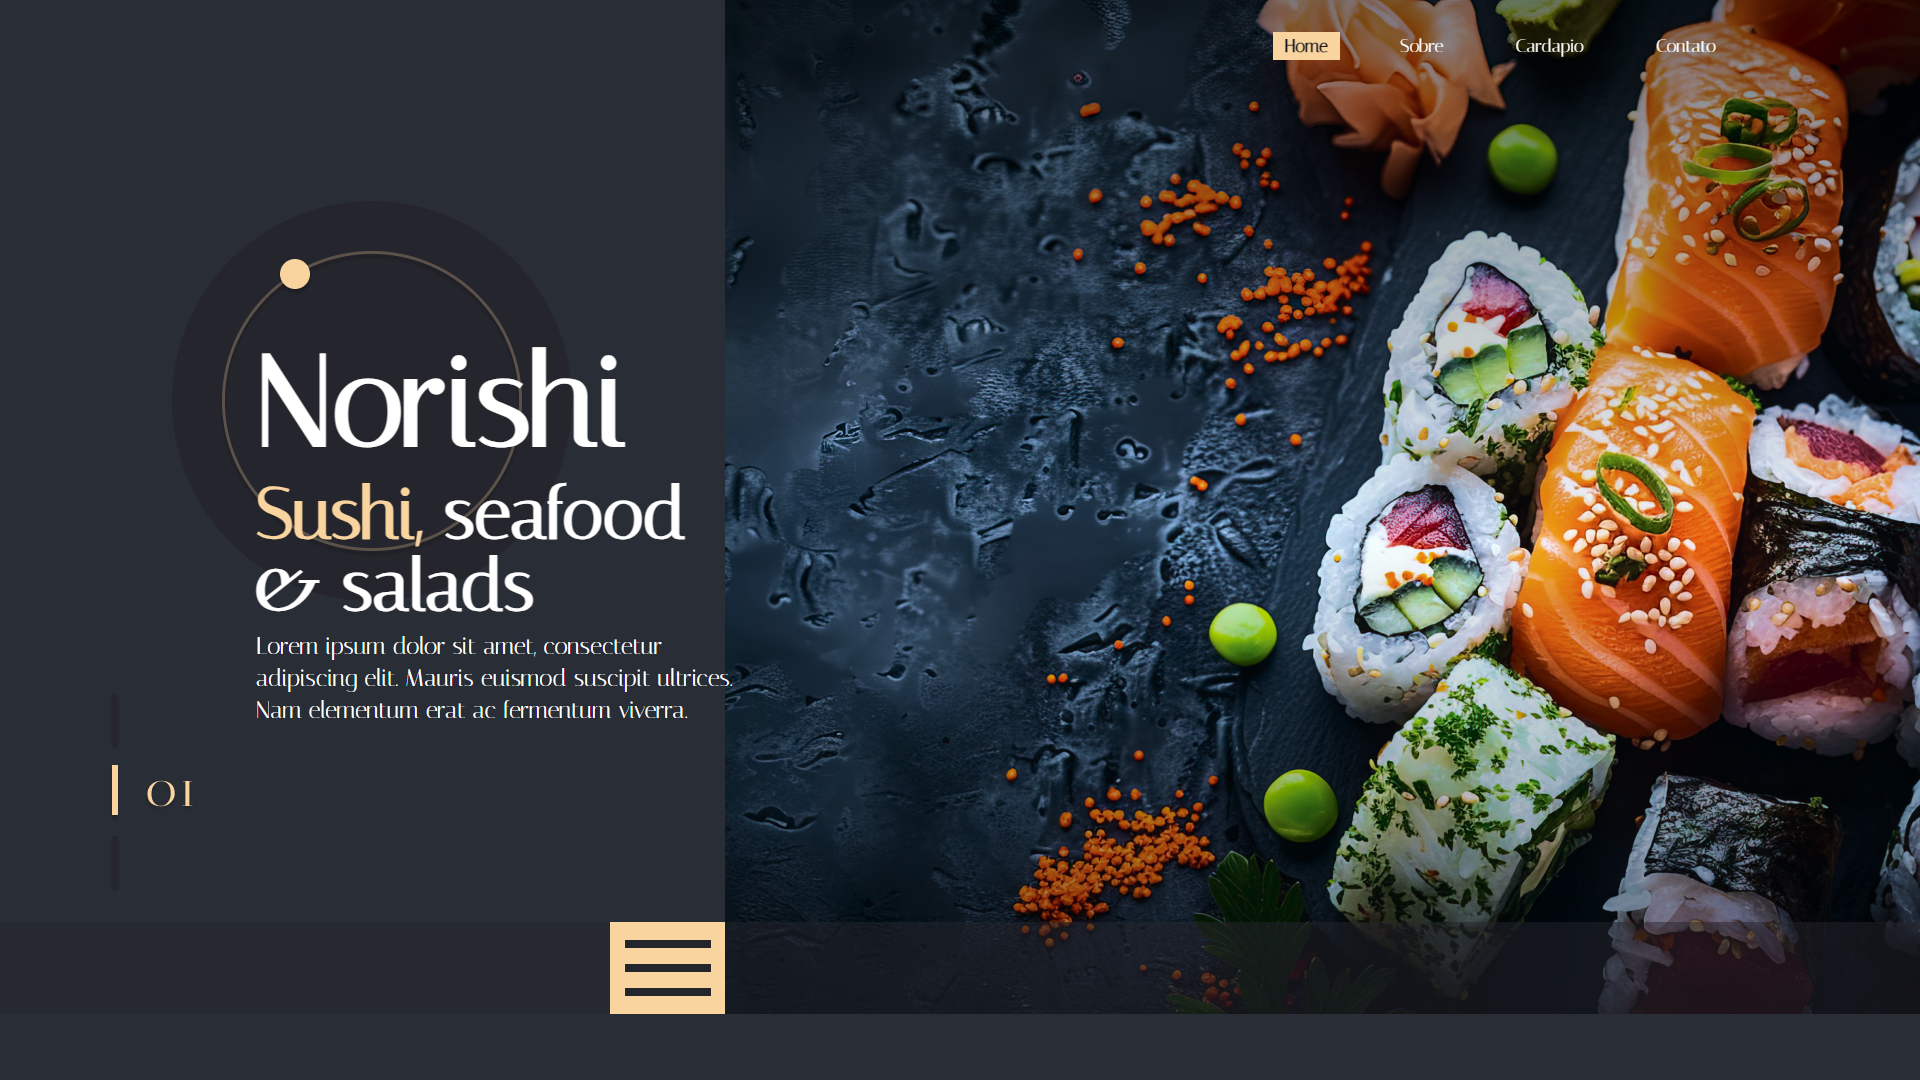
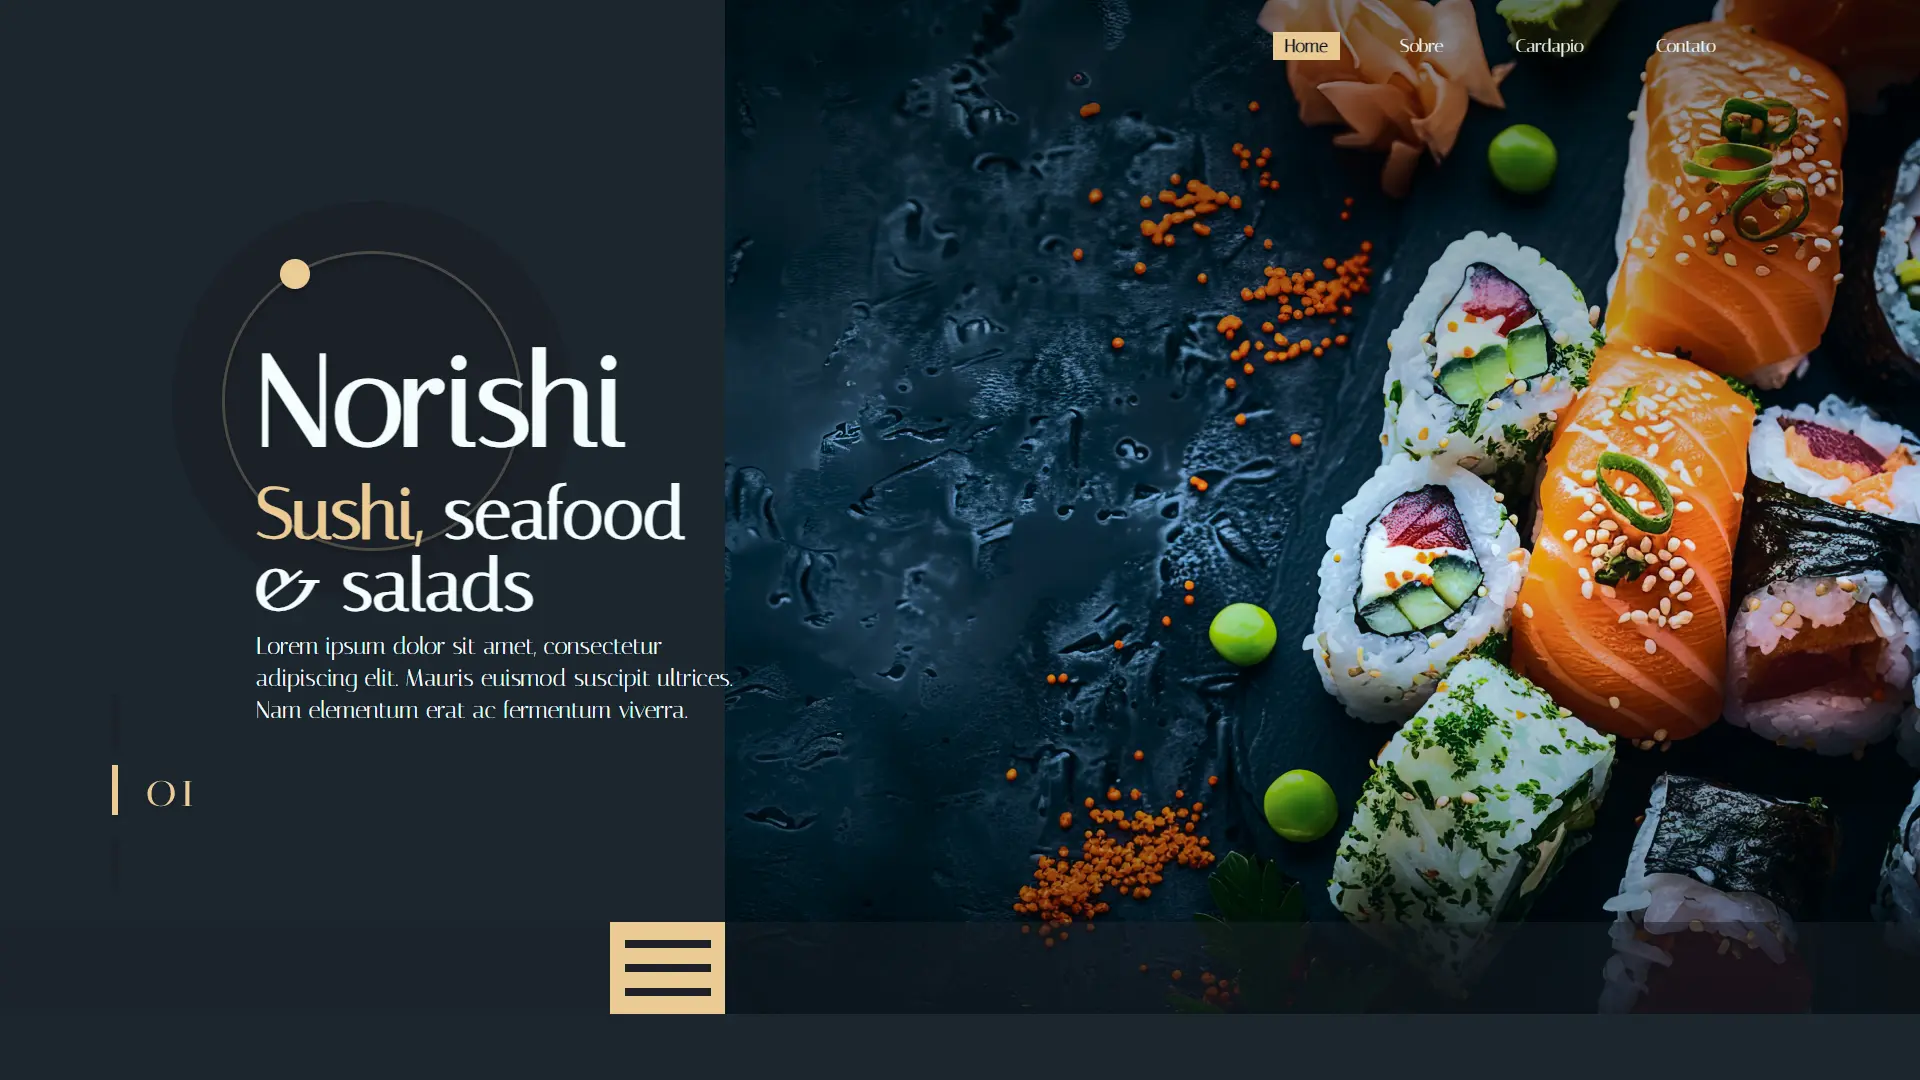
Add

diff --git a/src/components/Projects.tsx b/src/components/Projects.tsx
@@ -1,6 +1,6 @@
 // Projects.tsx
 'use client';
-import React from 'react';
+import React, { useState } from 'react';
 import { FaGithub, FaAngular, FaVuejs } from 'react-icons/fa';
 import { SiTypescript, SiNextdotjs, SiTailwindcss } from 'react-icons/si';
 import FadeInSection from './FadeInSection';
@@ -9,45 +9,54 @@ import mymovies from '@/assets/mymovies.webp';
 import norishi from '@/assets/Norishi.webp';
 import exotics from '@/assets/exotics.webp';
 import webstore from '@/assets/webstore.webp'
-import cafty from '@/assets/cafty.webp';
+import cofty from '@/assets/cofty.webp';
 import arenax from '@/assets/arenax.webp';
+
+interface ProjectsProps {
+    language: string;
+}
 
 const projects = [
     {
-        title: 'ArenaX',
-        description: 'Landing Page',
-        imageUrl: arenax,
-        technologies: [<FaAngular key="angular" />, <SiTypescript key="typescript" />, <SiTailwindcss key="tailwind" />],
-        liveUrl: 'https://arena-x-zeta.vercel.app/',
-        repoUrl: 'https://github.com/VictorBravim/ArenaX',
-    },
-    {
-        title: 'Cafty',
-        description: 'Landing Page',
-        imageUrl: cafty,
-        technologies: [<SiTypescript key="typescript" />, <SiNextdotjs key="nextjs" />, <SiTailwindcss key="tailwindcss" />],
-        liveUrl: 'https://cofty.vercel.app/',
-        repoUrl: 'https://github.com/VictorBravim/Cafty',
-    },
-    {
-        title: 'WebStore',
-        description: 'Template',
-        imageUrl: webstore,
-        technologies: [<SiTypescript key="typescript" />, <SiNextdotjs key="nextjs" />, <SiTailwindcss key="tailwindcss" />],
-        liveUrl: 'https://web-store-pi.vercel.app/',
-        repoUrl: 'https://github.com/VictorBravim/WebStore',
-    },
-    {
         title: 'Exotics',
         description: 'Landing Page',
+        category: 'web',
         imageUrl: exotics,
         technologies: [<SiTypescript key="typescript" />, <SiNextdotjs key="nextjs" />, <SiTailwindcss key="tailwindcss" />],
         liveUrl: 'https://exotics.vercel.app/',
         repoUrl: 'https://github.com/VictorBravim/Exotics',
     },
     {
+        title: 'Cofty',
+        description: 'Landing Page',
+        category: 'web',
+        imageUrl: cofty,
+        technologies: [<SiTypescript key="typescript" />, <SiNextdotjs key="nextjs" />, <SiTailwindcss key="tailwindcss" />],
+        liveUrl: 'https://cofty.vercel.app/',
+        repoUrl: 'https://github.com/VictorBravim/Cafty',
+    },
+    {
+        title: 'ArenaX',
+        description: 'Landing Page',
+        category: 'web',
+        imageUrl: arenax,
+        technologies: [<FaAngular key="angular" />, <SiTypescript key="typescript" />, <SiTailwindcss key="tailwind" />],
+        liveUrl: 'https://arena-x-zeta.vercel.app/',
+        repoUrl: 'https://github.com/VictorBravim/ArenaX',
+    },
+    {
+        title: 'WebStore',
+        description: 'Template',
+        category: 'web',
+        imageUrl: webstore,
+        technologies: [<SiTypescript key="typescript" />, <SiNextdotjs key="nextjs" />, <SiTailwindcss key="tailwindcss" />],
+        liveUrl: 'https://web-store-pi.vercel.app/',
+        repoUrl: 'https://github.com/VictorBravim/WebStore',
+    },
+    {
         title: 'Norishi',
         description: 'Single Page',
+        category: 'web',
         imageUrl: norishi,
         technologies: [<SiTypescript key="typescript" />, <SiNextdotjs key="nextjs" />, <SiTailwindcss key="tailwindcss" />],
         liveUrl: 'https://norishi.vercel.app/',
@@ -56,19 +65,103 @@ const projects = [
     {
         title: 'MyMovies',
         description: 'Single Page',
+        category: 'design',
         imageUrl: mymovies,
         technologies: [<FaVuejs key="vue" />, <SiTypescript key="typescript" />, <SiTailwindcss key="tailwind" />],
         liveUrl: 'https://my-movies-peach.vercel.app/',
         repoUrl: 'https://github.com/VictorBravim/MyMovies',
     },
+    {
+        title: 'Project 7',
+        description: 'Design Project',
+        category: 'design',
+        imageUrl: mymovies,
+        technologies: [<FaVuejs key="vue" />, <SiTypescript key="typescript" />, <SiTailwindcss key="tailwind" />],
+        liveUrl: 'https://project7.vercel.app/',
+        repoUrl: 'https://github.com/VictorBravim/Project7',
+    },
+    {
+        title: 'Project 8',
+        description: 'Web Project',
+        category: 'web',
+        imageUrl: webstore,
+        technologies: [<FaAngular key="angular" />, <SiTypescript key="typescript" />, <SiTailwindcss key="tailwind" />],
+        liveUrl: 'https://project8.vercel.app/',
+        repoUrl: 'https://github.com/VictorBravim/Project8',
+    },
+    {
+        title: 'Project 9',
+        description: 'Design Project',
+        category: 'design',
+        imageUrl: cofty,
+        technologies: [<SiTypescript key="typescript" />, <SiNextdotjs key="nextjs" />, <SiTailwindcss key="tailwindcss" />],
+        liveUrl: 'https://project9.vercel.app/',
+        repoUrl: 'https://github.com/VictorBravim/Project9',
+    },
 ];
 
-const Projects: React.FC = () => {
+const Projects: React.FC<ProjectsProps> = ({ language }) => {
+    const [filter, setFilter] = useState('all');
+    const [visibleProjects, setVisibleProjects] = useState(6);
+
+    const handleLoadMore = () => {
+        setVisibleProjects(prev => prev + 3);
+    };
+
+    const filteredProjects = filter === 'all' ? projects : projects.filter(project => project.category === filter);
+
     return (
-        <div id='projects' className="bg-black text-white p-10 py-32">
+        <section id='projects' className="bg-black text-white p-10 py-32"
+        style={{ 
+            backgroundImage: "url('/bg2.png')",
+            backgroundSize: 'cover',
+            backgroundPosition: 'center',
+          }}>
             <div className="container mx-auto">
+                <FadeInSection>
+                    <div className='flex flex-col lg:flex-row justify-between'>
+                        <div className="flex justify-start mb-8">
+                            <button
+                                className={`px-4 py-2 mr-2 ${filter === 'all' ? 'bg-white text-black' : 'text-white bg-transparent'} border border-white`}
+                                onClick={() => setFilter('all')}
+                            >
+                                    {language === 'PT' ? (
+                                        "Todos"
+                                    ) : (
+                                        "All"
+                                    )}
+                            </button>
+                            <button
+                                className={`px-4 py-2 mx-2 ${filter === 'web' ? 'bg-white text-black' : 'text-white bg-transparent'} border border-white`}
+                                onClick={() => setFilter('web')}
+                            >
+                                Web
+                            </button>
+                            <button
+                                className={`px-4 py-2 mx-2 ${filter === 'design' ? 'bg-white text-black' : 'text-white bg-transparent'} border border-white`}
+                                onClick={() => setFilter('design')}
+                            >
+                                Design
+                            </button>
+                        </div>
+                        {visibleProjects < filteredProjects.length && (
+                            <div className="flex justify-end mb-8">
+                                <button
+                                    className="bg-transparent text-white text-xl font-bold py-2 px-4 border border-white transition hover:bg-white hover:text-black"
+                                    onClick={handleLoadMore}
+                                >
+                                    {language === 'PT' ? (
+                                        "Carregar Mais"
+                                    ) : (
+                                        "Show More"
+                                    )}
+                                </button>
+                            </div>
+                        )}
+                    </div>
+                </FadeInSection>
                 <div className="grid grid-cols-1 md:grid-cols-2 lg:grid-cols-3 gap-10">
-                    {projects.map((project, index) => (
+                    {filteredProjects.slice(0, visibleProjects).map((project, index) => (
                         <FadeInSection key={index}>
                             <div className="relative group">
                                 <Image
@@ -76,22 +169,22 @@ const Projects: React.FC = () => {
                                     alt={project.title}
                                     className="w-full h-70 object-cover object-center group-hover:grayscale-0 transition duration-300"
                                 />
-                                <div className="absolute inset-0 bg-black bg-opacity-70 opacity-0 group-hover:opacity-100 transition duration-300 flex flex-col justify-center items-center">
+                                <div className="absolute inset-0 bg-black bg-opacity-70 opacity-0 group-hover:opacity-100 transition duration-300 flex flex-col justify-center items-center text-center p-4">
                                     <h3 className="text-2xl font-bold mb-4">{project.title}</h3>
                                     <p className="mb-4">{project.description}</p>
-                                    <div className="flex flex-wrap gap-2 mb-4">
+                                    <div className="flex flex-wrap justify-center gap-2 mb-4">
                                         {project.technologies.map((icon, i) => (
                                             <span key={i} className="text-2xl">{icon}</span>
                                         ))}
                                     </div>
                                     <div className="flex space-x-4">
                                         {project.liveUrl && (
-                                            <a href={project.liveUrl} target="_blank" rel="noopener noreferrer" className="bg-white text-black text-xl font-bold py-2 px-4">
+                                            <a href={project.liveUrl} target="_blank" rel="noopener noreferrer" className="bg-white text-black text-xl font-bold py-2 px-4 transition hover:bg-gray-200">
                                                 Live Preview
                                             </a>
                                         )}
                                         {project.repoUrl && (
-                                            <a href={project.repoUrl} target="_blank" rel="noopener noreferrer" className="bg-white flex items-center text-black text-xl font-bold py-2 px-4">
+                                            <a href={project.repoUrl} target="_blank" rel="noopener noreferrer" className="bg-white flex items-center text-black text-xl font-bold py-2 px-4 transition hover:bg-gray-200">
                                                 <FaGithub />
                                             </a>
                                         )}
@@ -102,7 +195,7 @@ const Projects: React.FC = () => {
                     ))}
                 </div>
             </div>
-        </div>
+        </section>
     );
 };
 

diff --git a/src/components/Contact.tsx b/src/components/Contact.tsx
@@ -6,7 +6,11 @@ import { toast, ToastContainer } from 'react-toastify';
 import 'react-toastify/dist/ReactToastify.css';
 import { useInView } from 'react-intersection-observer';
 
-export default function Contato() {
+interface ContactProps {
+    language: string;
+}
+
+const Contact: React.FC<ContactProps> = ({ language }) => {
     const { ref, inView } = useInView({
         triggerOnce: true,
         threshold: 0.1,
@@ -56,7 +60,12 @@ export default function Contato() {
     };
 
     return (
-        <div id="contact" ref={ref} className={`bg-none py-20 h-full fade-in-section ${inView ? 'is-visible' : ''}`}>
+        <div id="contact" ref={ref} className={`bg-none py-20 h-full fade-in-section ${inView ? 'is-visible' : ''}`}
+            style={{
+                backgroundImage: "url('/bg.png')",
+                backgroundSize: 'cover',
+                backgroundPosition: 'center',
+            }}>
             <div className="w-full lg:w-4/5 bg-black p-12 mx-auto px-4">
                 <div className="flex flex-col lg:flex-row">
                     <div className='flex w-full lg:w-1/2'>
@@ -78,7 +87,13 @@ export default function Contato() {
                     <div className="w-full lg:w-1/2">
                         <form onSubmit={handleSubmit}>
                             <div className="mb-4">
-                                <label htmlFor="user_name" className="block text-gray-300 font-semibold mb-2">Nome</label>
+                                <label htmlFor="user_name" className="block text-gray-300 font-semibold mb-2">
+                                    {language === 'PT' ? (
+                                        "Nome"
+                                    ) : (
+                                        "Name"
+                                    )}
+                                </label>
                                 <input type="text" id="user_name" name="user_name" value={formData.user_name} onChange={handleInputChange} className="w-full bg-black text-gray-300 border-b border-white py-2 px-3 focus:outline-none focus:border-blue-500" />
                             </div>
                             <div className="mb-4">
@@ -86,11 +101,21 @@ export default function Contato() {
                                 <input type="email" id="user_email" name="user_email" autoComplete="email" value={formData.user_email} onChange={handleInputChange} className="w-full bg-black text-gray-300 border-b border-white py-2 px-3 focus:outline-none focus:border-blue-500" />
                             </div>
                             <div className="mb-6">
-                                <label htmlFor="mensagem" className="block text-gray-300 font-semibold mb-2">Mensagem</label>
+                                <label htmlFor="mensagem" className="block text-gray-300 font-semibold mb-2">
+                                    {language === 'PT' ? (
+                                        "Mensagem"
+                                    ) : (
+                                        "Message"
+                                    )}
+                                </label>
                                 <textarea id="mensagem" name="message" rows={4} value={formData.message} onChange={handleInputChange} className="w-full text-gray-300 bg-black border-b border-white py-2 px-3 focus:outline-none focus:border-blue-500" />
                             </div>
                             <button type="submit" className="bg-gray-custom text-white font-semibold py-2 px-4 border-b border-white hover:bg-transparent hover:text-gray-custom transition-colors duration-300">
-                                Enviar Mensagem
+                                {language === 'PT' ? (
+                                    "Enviar Mensagem"
+                                ) : (
+                                    "Send Message"
+                                )}
                             </button>
                         </form>
                     </div>
@@ -100,3 +125,5 @@ export default function Contato() {
         </div>
     );
 }
+
+export default Contact;

diff --git a/src/components/Nav.tsx b/src/components/Nav.tsx
@@ -7,6 +7,8 @@ import Image from 'next/image';
 import logo from '@/assets/Logo.webp';
 import About from './About';
 import Hero from './Hero';
+import Projects from "./Projects";
+import Contact from "./Contact";
 
 export default function Nav() {
     const [menuOpen, setMenuOpen] = useState(false);
@@ -97,7 +99,7 @@ export default function Nav() {
                             </button>
                         </div>
                     </div>
-                    <nav className="bg-transparent px-6 lg:px-0 py-10 fixed w-full lg:w-4/5 left-1/2 transform -translate-x-1/2 top-0 lg:rounded-b-xl z-10">
+                    <nav className="bg-black bg-opacity-50 px-6 lg:px-0 py-4 pt-6 fixed w-full lg:w-4/5 left-1/2 transform -translate-x-1/2 top-0 z-10">
                         <div className="max-w-8xl mx-auto flex justify-between items-center">
                             <div className="flex items-center flex-shrink-0 text-gray-custom">
                                 <Image src={logo} alt="Logo" width={35} height={50} priority className="w-auto h-auto mr-2 ml-4 lg:ml-0" />
@@ -150,6 +152,8 @@ export default function Nav() {
             )}
             <Hero language={language} onLoad={handleHeroLoad} />
             <About language={language} />
+            <Projects language={language} />
+            <Contact language={language} />
         </div>
     );
 }

diff --git a/src/components/About.tsx b/src/components/About.tsx
@@ -53,7 +53,12 @@ const About: React.FC<AboutProps> = ({ language }) => {
     }, []);
 
     return (
-        <div id='about' className="bg-black text-white py-40 pt-48 px-5 md:px-20">
+        <div id='about' className="bg-black text-white py-40 pt-48 px-5 md:px-20" 
+          style={{ 
+            backgroundImage: "url('/bg.png')",
+            backgroundSize: 'cover',
+            backgroundPosition: 'center',
+          }}>
             <div className="container mx-auto flex flex-col space-y-10">
                 <FadeInSection>
                     <div className='flex flex-col lg:flex-row mb-12'>

diff --git a/src/app/page.tsx b/src/app/page.tsx
@@ -1,16 +1,12 @@
 // Page.tsx
 import React from 'react';
 import Nav from '@/components/Nav';
-import Projects from '@/components/Projects';
-import Contact from '@/components/Contact';
 import Footer from '@/components/Footer';
 
 const Page: React.FC = () => {
     return (
         <div>
             <Nav />
-            <Projects />
-            <Contact />
             <Footer />
         </div>
     );
